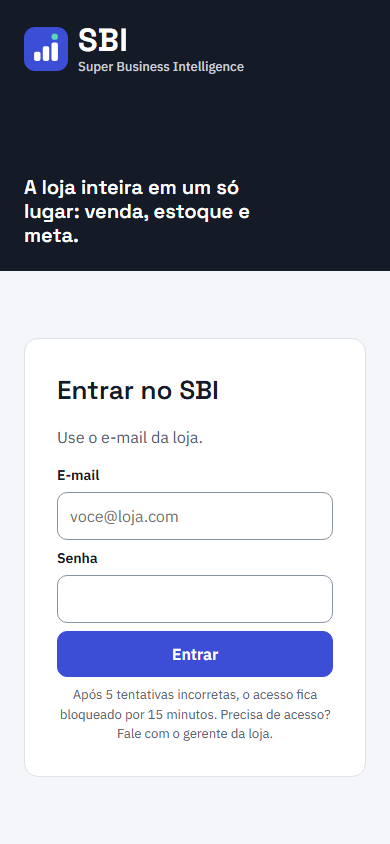
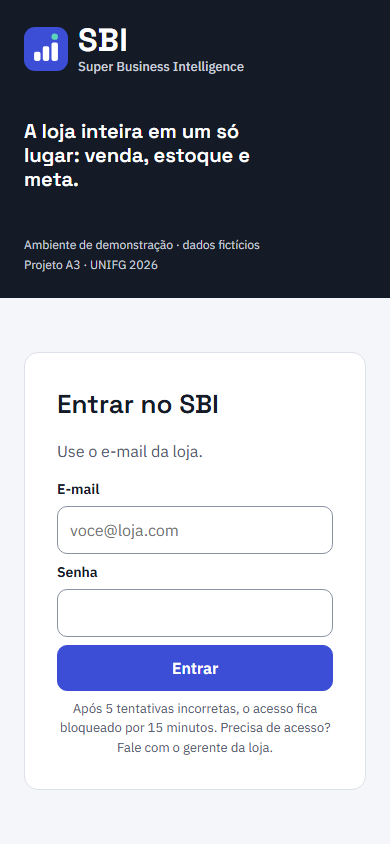
fix(demo): cost the seeded phones, translate Olist categories and cap the top products table

diff --git a/frontend/app/(app)/gestao/dashboard.tsx b/frontend/app/(app)/gestao/dashboard.tsx
@@ -14,6 +14,8 @@ import { GoalBar, RevenueChart, ShareBars } from '../../../components/charts.tsx
 import { Icon } from '../../../components/brand/icons.tsx';
 
 const PERIODS = [['TODAY', 'Hoje'], ['D7', '7 dias'], ['D30', '30 dias'], ['D90', '90 dias']] as const;
+/** Linhas da tabela "Produtos mais vendidos"; a lista completa fica em Análises. */
+const TOP_PRODUCTS = 10;
 type Period = (typeof PERIODS)[number][0];
 const GOAL_STATE: Readonly<Record<string, string>> = { SEM_META: 'Sem meta', EM_ANDAMENTO: 'Em andamento', META_ATINGIDA: 'Meta atingida' };
 
@@ -58,10 +60,11 @@ export default function Dashboard() {
   });
 
   const report = revenue.data;
-  const products = useMemo(() => {
+  const matching = useMemo(() => {
     const term = productFilter.trim().toLowerCase();
     return (report?.topProducts ?? []).filter(p => !term || p.name.toLowerCase().includes(term) || p.sku.toLowerCase().includes(term));
   }, [report, productFilter]);
+  const products = matching.slice(0, TOP_PRODUCTS);
   const updated = revenue.dataUpdatedAt ? formatTime(new Date(revenue.dataUpdatedAt).toISOString()) : null;
   const missingCost = report !== undefined && report.grossProfit === null;
 
@@ -127,7 +130,8 @@ export default function Dashboard() {
                 <input id="filtro-produto" className="input" type="search" placeholder="Buscar produto" value={productFilter}
                        onChange={event => setProductFilter(event.target.value)} /></div>
             </div>
-            {products.length === 0 ? <p className="empty">Nenhum produto vendido no período.</p> : <div className="table-wrap"><table>
+            {products.length === 0 ? <p className="empty">Nenhum produto vendido no período.</p>
+              : <div className="table-wrap" tabIndex={0} role="group" aria-labelledby="produtos-titulo"><table>
               <caption className="sr-only">Produtos mais vendidos</caption>
               <thead><tr><th scope="col">Produto</th><th scope="col" className="right">Unid.</th><th scope="col" className="right">Líquido</th>
                 <th scope="col" className="right">Lucro</th></tr></thead>
@@ -136,6 +140,8 @@ export default function Dashboard() {
                   <td className="num right">{money(p.netRevenue)}</td><td className="num right">{money(p.grossProfit)}</td></tr>
               ))}</tbody>
             </table></div>}
+            {matching.length > TOP_PRODUCTS && <p className="muted">
+              Mostrando {TOP_PRODUCTS} de {matching.length}. <Link href="/gestao/analises">Ver todos</Link></p>}
           </section>
           <div className="stack">
             <section className="card stack-sm" aria-labelledby="meta-titulo">

diff --git a/frontend/app/globals.css b/frontend/app/globals.css
@@ -112,7 +112,8 @@ dl.facts dd { margin: 2px 0 0; overflow-wrap: anywhere; }
 .login-panel { background: var(--ink); color: #fff; padding: var(--space-6); display: flex; flex-direction: column; justify-content: space-between; gap: var(--space-4); }
 .login-panel .login-headline { color: #fff; font-size: clamp(26px, 3vw, 36px); line-height: 1.2; font-weight: 600; max-width: 18ch; margin: 0; }
 .login-panel p { color: #C9CEDA; max-width: 44ch; }
-.login-panel .login-footer { font-size: 13px; color: #C9CEDA; }
+.login-panel .login-footer { font-size: 13px; line-height: 18px; color: #C9CEDA; display: grid; gap: 2px; }
+.login-panel .login-footer span { white-space: nowrap; }
 .login-form { display: grid; place-items: center; padding: var(--space-3); }
 .login .card { width: 100%; max-width: 420px; padding: var(--space-4); display: grid; gap: var(--space-2); }
 .login .card h2 { font-size: 24px; line-height: 32px; }
@@ -196,7 +197,8 @@ dl.facts dd { margin: 2px 0 0; overflow-wrap: anywhere; }
   .login { grid-template-columns: minmax(0, 1fr); }
   .login-panel { padding: var(--space-3); gap: var(--space-2); }
   .login-panel .login-headline { font-size: 20px; }
-  .login-panel .login-lead, .login-panel .login-footer { display: none; }
+  .login-panel .login-lead { display: none; }
+  .login-panel .login-footer { font-size: 12px; }
 }
 @media (max-width: 900px) {
   .pdv { grid-template-columns: minmax(0, 1fr); }

diff --git a/frontend/e2e/brand.spec.ts b/frontend/e2e/brand.spec.ts
@@ -75,3 +75,18 @@ test('[CT-WEB-121] rota inexistente mostra a pagina de nao encontrada da marca',
   expect(response?.status()).toBe(404);
   await expect(page.getByRole('heading', { name: 'Página não encontrada.' })).toBeVisible();
 });
+
+test('[CT-WEB-127] rodape do login em duas linhas inteiras em 1280 px e 390 px', async ({ page }) => {
+  for (const width of [1280, 390]) {
+    await page.setViewportSize({ width, height: width === 390 ? 844 : 800 });
+    await page.goto('/entrar');
+    const lines = page.locator('.login-footer span');
+    await expect(lines).toHaveText(['Ambiente de demonstração · dados fictícios', 'Projeto A3 · UNIFG 2026']);
+    for (const line of await lines.all()) {
+      const { height, lineHeight } = await line.evaluate(el => ({
+        height: el.getBoundingClientRect().height, lineHeight: parseFloat(getComputedStyle(el).lineHeight) }));
+      expect(height, `largura ${width}`).toBeLessThan(lineHeight * 1.5);
+    }
+    expect(await overflowing(page), `largura ${width}`).toEqual([]);
+  }
+});

diff --git a/frontend/e2e/manager.spec.ts b/frontend/e2e/manager.spec.ts
@@ -56,3 +56,16 @@ test('[CT-UI-001] menu do gerente traz as areas de venda e de gestao', async ({ 
     await expect(nav.getByRole('link', { name, exact: true })).toBeVisible();
   }
 });
+
+test('[CT-WEB-126] Produtos mais vendidos mostra 10 linhas e leva a Analises pelo "Ver todos"', async ({ page }) => {
+  for (let i = 0; i < 11; i++) await paidSale(await seed(5));
+  await login(page);
+  await page.goto('/gestao');
+  await page.getByText('Hoje', { exact: true }).click();
+  const section = page.getByRole('region', { name: 'Produtos mais vendidos' });
+  await expect(section.getByRole('table')).toBeVisible();
+  await expect(section.locator('tbody tr')).toHaveCount(10);
+  await expect(section.getByText(/^Mostrando 10 de \d+\./)).toBeVisible();
+  await section.getByRole('link', { name: 'Ver todos' }).click();
+  await expect(page).toHaveURL(/\/gestao\/analises$/);
+});

diff --git a/frontend/app/entrar/page.tsx b/frontend/app/entrar/page.tsx
@@ -15,7 +15,7 @@ export default function LoginPage() {
           <p className="display login-headline">A loja inteira em um só lugar: venda, estoque e meta.</p>
           <p className="login-lead">Cada venda baixa o estoque e conta para a meta de quem vendeu, com o mesmo número para gerente e vendedor.</p>
         </div>
-        <p className="login-footer">Ambiente de demonstração · dados fictícios · Projeto A3 · UNIFG 2026</p>
+        <p className="login-footer"><span>Ambiente de demonstração · dados fictícios</span><span>Projeto A3 · UNIFG 2026</span></p>
       </section>
       <div className="login-form">
         <section className="card" aria-labelledby="login-title">

diff --git a/docs/decisoes/evolucao.md b/docs/decisoes/evolucao.md
@@ -66,4 +66,8 @@ Data: 15/10/2026. Acabamento do ambiente publicado (Vercel, Render e Neon) e hig
 | D-PUB-01 | Cada pacote de publicação (WP-PUB-1 a 4) sai da `main` em branch própria, com um PR cada. Como todos acrescentam linhas no fim desta seção, o PR integrado depois do primeiro recebe a `main` por merge e mantém as duas listas de decisões. |
 | D-PUB-02 | A CI rejeita PR cujas mensagens de commit tragam rodapé de coautoria, crédito a ferramenta ou link de sessão (`scripts/check-commit-messages.mjs`, job `hygiene`); o mesmo verificador roda no hook local `commit-msg`. Os nomes de produto da lista ficam em base64 no script, e a mensagem de erro cita só a linha e a regra, para que o verificador não contenha nem imprima os termos que ele mesmo bloqueia. Termo dentro de outra palavra não conta. |
 | D-PUB-03 | Os arquivos de instruções que o `next dev` do Next 16 gera na raiz do `frontend/` saem do repositório e ficam ignorados por `frontend/.gitignore` com `/*.md` (exceto um futuro `README.md`), sem nomear cada arquivo; a raiz ignora `AGENTS.md`. Os dois commits antigos que trazem rodapé de coautoria continuam no histórico da `main`: removê-los exige reescrever a `main` e sincronizar todos os clones, o que fica para decisão da equipe. |
+| D-PUB-04 | iPhone e AirPods do seed demo passam a ter custo (60% do preço: R$ 2.700,00 e R$ 720,00) pela migração demo `V11_2`, gravado na entrada da carga inicial, no custo médio do saldo e no custo histórico dos itens já vendidos. Uma entrada nova de estoque não resolveria: com saldo e custo médio desconhecido, o gatilho mantém o custo desconhecido (CA-22-02), e a entrada ainda mudaria os saldos do Guia Visual usados nos testes BD-06, BD-19 e BD-21. O BD-07 (margem nula quando falta custo) passa a usar um produto próprio, dentro de transação desfeita no fim; o BD-07b confere a margem dos dois produtos. O `04_seed_demo.sql` recebe o mesmo trecho para o `run_all.sh`. |
+| D-PUB-05 | A carga Olist traduz as 37 categorias para o português com acento por uma tabela de mapeamento (`stg_olist.categoria_pt`); categoria sem tradução faz a carga falhar. O nome do produto segue a categoria (`<categoria> <código>`). "Audio" fica com a categoria de mesmo nome do seed, para não existirem duas categorias de áudio; os nomes do seed (Audio, Acessorios) não mudam porque testes e a promoção os usam. A limpeza apaga também as categorias sem acento de cargas anteriores, quando ficam sem produto. |
+| D-PUB-06 | Login: o rodapé do painel vira duas linhas que não quebram ("Ambiente de demonstração · dados fictícios" e "Projeto A3 · UNIFG 2026") e passa a aparecer também na faixa compacta (até 1024 px), porque o site público é aberto no celular e o aviso de dados fictícios importa ali. No `/gestao`, "Produtos mais vendidos" mostra os 10 primeiros (depois do filtro) com "Mostrando 10 de N" e o link "Ver todos" para Análises. |
+| D-PUB-07 | Com os nomes de categoria em português, a tabela "Produtos mais vendidos" passa a rolar na horizontal em 390 px, e o axe acusou `scrollable-region-focusable`. A área de rolagem da tabela recebe `tabIndex={0}`, `role="group"` e o nome do título da seção, para quem usa só o teclado conseguir rolar. As 17 capturas de `reports/marca/` foram refeitas com 0 violação. |
 | D-PUB-11 | O único endereço do site é <https://sbi-app-alpha.vercel.app>, por decisão do responsável em 15/10/2026. O verificador `scripts/check-commit-messages.mjs` passa a reprovar o domínio da demonstração antiga nas mensagens de commit (CI e hook `commit-msg`) e, com `--tracked`, em qualquer arquivo versionado (passo novo do job `hygiene`). O domínio fica em base64 no script, como os nomes de produto, para não aparecer em nenhum arquivo. |

diff --git a/docs/roteiro-demonstracao.md b/docs/roteiro-demonstracao.md
@@ -35,7 +35,7 @@ Contas: Matheus Siqueira (gerente, o único da loja) e Gabriel Sousa, Allan Barr
 | 7:45 | 9. Tentar rebaixar o último gerente | Em Usuários, mostrar que a linha "Matheus Siqueira (você)" não tem ação de papel nem de situação. No IntelliJ (Neon), executar `BEGIN; SET CONSTRAINTS ALL IMMEDIATE; UPDATE app_users SET role = 'VENDEDOR' WHERE db_role = 'gerente_rafael'; ROLLBACK;`: o banco responde `LAST_MANAGER: at least one active manager is required`. | Duas proteções: a API proíbe alterar a própria conta (409 `SELF_CHANGE_FORBIDDEN`) e o gatilho `keep_one_active_manager` garante um gerente ativo mesmo com dois gerentes se rebaixando ao mesmo tempo (409 `LAST_MANAGER`). O `db_role` é a chave fixa da conta de gerente do seed. |
 | 8:30 | 10. SQL e CRUD no banco | No IntelliJ (Neon), executar `08_crud_clientes_olist.sql` por blocos: cadastro de PF e de PJ com CNPJ alfanumérico, as recusas do banco, histórico da Larissa, `v_cliente_resumo`, ranking de clientes e exclusão recusada pela FK. Tudo termina em `ROLLBACK`. | É o mesmo banco que atende o site. A massa entrou por SQL puro (`\copy`, `INSERT ... SELECT`, uma transação) e o banco aceita CRUD de qualquer cliente SQL; CHECKs, FKs e gatilhos barram o que a API também barra. |
 | 10:00 | 11. Contrato | No terminal: `gh run list --branch main --limit 1`, abrir a execução e mostrar o job `contract`. Mostrar `reports/contrato/live-v5/live-contract.json` com `divergences: []`. | As 58 operações do contrato v5 são chamadas de verdade contra uma API isolada (a CI e o `scripts\test-contract.ps1` não tocam no banco publicado), e cada resposta, inclusive de erro, é validada com Ajv contra o contrato. |
-| 11:15 | 12. Job `bd` | Na mesma execução, job `bd`, e o artefato `bd-reports/resultado_bd.txt` (`gh run download <id> -n bd-reports`): 60 PASS e, na etapa Olist, 10 PASS. | Flyway V1–V11, seed demo, RBAC/RLS, CRUD, a corrida da última unidade (CC-01), o último gerente (BD-30), as alçadas (BD-32) e a massa Olist (CT-DEMO) passam por `psql`. Cada push na `main` publica sozinho a API e o frontend. |
+| 11:15 | 12. Job `bd` | Na mesma execução, job `bd`, e o artefato `bd-reports/resultado_bd.txt` (`gh run download <id> -n bd-reports`): 61 PASS e, na etapa Olist, 11 PASS. | Flyway V1–V11, seed demo, RBAC/RLS, CRUD, a corrida da última unidade (CC-01), o último gerente (BD-30), as alçadas (BD-32) e a massa Olist (CT-DEMO) passam por `psql`. Cada push na `main` publica sozinho a API e o frontend. |
 
 ## Depois da apresentação ou do ensaio
 

diff --git a/docs/plano-testes.md b/docs/plano-testes.md
@@ -276,12 +276,15 @@ Lacunas e decisoes em [decisoes/evolucao.md](decisoes/evolucao.md). Um pacote po
 | CT-DEMO-04 | WP-EVO-8 | BD | Valor limite | Verde | `09_testes_olist.sql`: saldo = entrada - vendido, nunca negativo, reservado 0 |
 | CT-DEMO-05 | WP-EVO-8 | API | Particionamento | Verde | `scripts/demo-olist-api.mjs`: VENDEDOR ve CPF e CNPJ da massa mascarados em lista, perfil, historico e resumo; GERENTE ve completo |
 | CT-DEMO-06 | WP-EVO-8 | BD | - | Verde | `run_olist_bd.sh`: roteiro `08_crud_clientes_olist.sql` com exatamente as tres recusas esperadas |
+| CT-DEMO-07 | WP-PUB-2 | BD | - | Verde | `09_testes_olist.sql`: 37 categorias com nome em portugues, produto `<categoria> <codigo>` e nenhuma categoria sem acento |
 | CT-WEB-120 | WP-EVO-9 | E2E | Particionamento | Verde | `e2e/brand.spec.ts`: logo com nome acessivel "SBI — Super Business Intelligence" e um unico item com `aria-current` em todas as rotas do gerente (10) e do vendedor (4) |
 | CT-WEB-121 | WP-EVO-9 | E2E/Acessibilidade | - | Verde | `e2e/brand.spec.ts`: `/icon.svg` e `/apple-icon.png` servidos, login "Entrar no SBI" com axe WCAG 2.2 AA e 320 px, menu recolhivel de 44 px em 320 px, 404 da marca |
 | CT-WEB-122 | WP-EVO-9 | Unitario | - | Verde | `tests/brand.test.ts`: nome acessivel unico e geometria do simbolo igual a `app/icon.svg` |
 | CT-WEB-123 | WP-EVO-9 | Unitario | - | Verde | `tests/brand.test.ts`: seis icones do manual e sete derivados; icone decorativo (`aria-hidden`) por padrao e nomeado com rotulo |
 | CT-WEB-124 | WP-EVO-9 | Unitario | Particionamento | Verde | `tests/brand.test.ts`: hora 14h30, periodo "01/09 a 30/09/2026", "Nao informado", "R$ 47 mil", iniciais do avatar, selos de estado e secoes do menu |
 | CT-WEB-125 | WP-EVO-9 | Unitario | - | Verde | `tests/brand.test.ts`: nenhuma forma proibida do nome (sigla com pontos, so a inicial maiuscula, nome abreviado com ou sem espaco, artigo feminino; lista em `FORBIDDEN`) em `frontend/app`, `components`, `lib` e `docs/` |
+| CT-WEB-126 | WP-PUB-2 | E2E | Valor limite | Verde | `e2e/manager.spec.ts`: com 11 produtos vendidos no dia, "Produtos mais vendidos" mostra 10 linhas, "Mostrando 10 de N" e o link "Ver todos" leva a `/gestao/analises` |
+| CT-WEB-127 | WP-PUB-2 | E2E | - | Verde | `e2e/brand.spec.ts`: rodape do login em duas linhas inteiras ("Ambiente de demonstracao · dados ficticios" e "Projeto A3 · UNIFG 2026") em 1280 px e 390 px, sem rolagem horizontal |
 
 ## Selecao inicial da suite
 

diff --git a/docs/bd/massa-demonstracao.md b/docs/bd/massa-demonstracao.md
@@ -20,7 +20,7 @@ Objetivo: dar à demonstração um histórico de compras realista e volumoso par
 ## Adaptações
 
 - **Pessoas:** a Olist não publica nome nem documento. Os nomes são sintéticos; CPF e CNPJ são gerados a partir de hash, com dígito verificador válido; os e-mails usam o domínio reservado `example.com`. Endereço: cidade, UF e prefixo de CEP do original, com rua e número de demonstração. Nenhum dado pessoal real.
-- **Produtos:** nome `<categoria> <código>`, SKU `OL-<6 hex>`, custo médio sintético de 55% a 70% do preço, só para margem e lucro aparecerem. Estoque inicial = quantidade vendida + saldo restante de 5 a 20 (determinístico pelo SKU), com entrada datada antes do primeiro pedido.
+- **Produtos:** nome `<categoria em português> <código>` (a carga traduz as 37 categorias com acento; categoria sem tradução faz a carga falhar), SKU `OL-<6 hex>`, custo médio sintético de 55% a 70% do preço, só para margem e lucro aparecerem. Estoque inicial = quantidade vendida + saldo restante de 5 a 20 (determinístico pelo SKU), com entrada datada antes do primeiro pedido.
 - **Datas:** comprimidas para os últimos 365 dias; `dias_atras` é relativo à data da carga, então o histórico não envelhece. Nenhum pedido fica no futuro: o horário de hoje é limitado ao instante da carga.
 - **Pagamento:** o de maior valor de cada pedido; cartão de crédito ou débito vira CARD (só os 4 últimos dígitos, sintéticos), boleto vira BOLETO (vencimento em 3 dias) e voucher vira PIX. Só pedidos entregues, todos pagos.
 - **Vendedor:** `VENDEDOR_1..3` viram Ana, Bruno e Carla, as contas de demonstração.
@@ -72,5 +72,6 @@ O banco está em `tmpfs`: cada `up` começa limpo e reproduzível. Para recarreg
 | CT-DEMO-04 | `09_testes_olist.sql` | saldo = entrada − vendido, nunca negativo, reservado 0 |
 | CT-DEMO-05 | `scripts/demo-olist-api.mjs` | pela API, o VENDEDOR vê CPF e CNPJ da massa mascarados em lista, perfil, histórico e resumo; o GERENTE vê completo e o resumo com 14 pedidos |
 | CT-DEMO-06 | `run_olist_bd.sh` | o roteiro 08 roda com exatamente as três recusas esperadas |
+| CT-DEMO-07 | `09_testes_olist.sql` | 37 categorias com nome em português e nenhum produto da massa em categoria sem acento |
 
 Na CI, o job `bd` roda essa etapa (`docs/bd/pacote-sql/run_olist_bd.sh`) depois dos testes 06*, então nenhum número do BD-01 ao BD-32 muda. Os perfis padrão, `integration` e `contract` não recebem a massa.

diff --git a/README.md b/README.md
@@ -78,7 +78,7 @@ As senhas ficam em `.env.local` (fora do git), gerado na primeira execução: `S
 | Perfil | Uso |
 | --- | --- |
 | padrão | Desenvolvimento com o banco `postgres-order` (`docker compose up -d postgres`) e a senha em `SPRING_DATASOURCE_PASSWORD`. |
-| `demo` | Aplica também `db/demo` (V6_1, contas com BCrypt de `SBI_DEMO_PASSWORD`; V6_2, massa sintética; V11_1, promoção de Acessórios até dezembro). Precisa estar ativo desde a primeira migração do banco. |
+| `demo` | Aplica também `db/demo` (V6_1, contas com BCrypt de `SBI_DEMO_PASSWORD`; V6_2, massa sintética; V11_1, promoção de Acessórios até dezembro; V11_2, custo da carga inicial de iPhone e AirPods). Precisa estar ativo desde a primeira migração do banco. |
 | `integration` (testes) | PostgreSQL descartável da porta 15432 (`docker-compose.test.yml`), com as tabelas de negócio esvaziadas por `TRUNCATE`. |
 | `contract` | API isolada dos testes HTTP de contrato, com contas sintéticas e senha gerada por execução. |
 
@@ -99,7 +99,7 @@ node scripts\quality-metrics.mjs reports\metricas\r1 "R1"                       
 
 A CI (`.github/workflows/ci.yml`) roda quatro jobs, cada um com seus relatórios como artefato:
 - `test (backend)`;
-- `bd`: Flyway, seed demo e pacote SQL com 60 PASS, mais 10 PASS da massa Olist;
+- `bd`: Flyway, seed demo e pacote SQL com 61 PASS, mais 11 PASS da massa Olist;
 - `contract`: auditoria estática e verificação ao vivo das 58 operações do contrato v5;
 - `frontend`: typecheck, schemas sem diff, testes unitários, build, E2E e axe.
 

diff --git a/docs/bd/migracoes.md b/docs/bd/migracoes.md
@@ -15,6 +15,7 @@ Desde a ETAPA 2A (14/10/2026), o Flyway é a única fonte do esquema em todos os
 | V5 | Pré-checagem dos dados legados; catálogo, estoque, metas, promoções, papéis, bloqueio de login, auditoria, idempotência e funções `fn_*` ([modelo](modelo-erp-pdv.md)). |
 | V6 | 16 views dos painéis, inclusive `v_faturamento_diario`. |
 | V6_1, V6_2 (`db/demo`) | Só no perfil `demo`: contas com BCrypt de `SBI_DEMO_PASSWORD` e massa sintética. |
+| V11_2 (`db/demo`) | Só no perfil `demo`: iPhone e AirPods da V6_2 passam a ter custo na carga inicial (60% do preço), gravado na entrada de 25/08, no custo médio e no custo histórico dos itens vendidos; saldos e reservas não mudam (D-PUB-04). |
 | V11_1 (`db/demo`) | Só no perfil `demo`: a promoção de Acessórios da V6_2 passa a valer até 31/12/2026 (cobre a apresentação de 29/11). Altera só a linha original do seed. |
 
 **Perfil `demo` (A2A-4).** Ele precisa estar ativo desde a primeira migração do banco. Com `out-of-order` desligado, ativá-lo num banco já migrado além da V6 faz o Flyway recusar as versões 6.1 e 6.2; nesse caso o banco é recriado, não completado. Sem `SBI_DEMO_PASSWORD` (12 a 72 bytes), a V6_1 falha e o banco não sobe.

diff --git a/docs/bd/modelo-erp-pdv.md b/docs/bd/modelo-erp-pdv.md
@@ -453,7 +453,7 @@ Ambiente: contêiner `postgres:18` descartável, removido ao final. Sequência: 
 | Base com dois CPFs que colidem após normalização | A pré-checagem abortou: `V5: documentos colidem apos normalizacao para digitos: 52998224725`. |
 | Testes 06a/06b/06c do pacote com o bloco D aplicado | 50 PASS, 0 FAIL, 0 ERROR. |
 | CC-01 (duas vendas simultâneas da última unidade) | Reservado/saldo = 1/1; a segunda venda recebeu `estoque insuficiente`. Com os 50, fecha os 51 PASS de 12/10. |
-| `v_faturamento_diario` sobre o seed de setembro | Faturamento bruto 186.400,00, 65 pedidos pagos, 92 unidades; 16 dos 27 dias com `lucro_bruto` nulo (iPhone e AirPods sem custo no seed, como no Guia Visual). |
+| `v_faturamento_diario` sobre o seed de setembro | Faturamento bruto 186.400,00, 65 pedidos pagos, 92 unidades; 16 dos 27 dias com `lucro_bruto` nulo só com a V6_2 (iPhone e AirPods sem custo, como no Guia Visual); com a V11_2 do perfil `demo`, que informa o custo da carga inicial desses dois produtos, nenhum dia fica nulo e o BD-07 usa um produto próprio sem custo. |
 
 O ensaio não exercitou as adaptações P1, P7 e P9 nem o seed com CPFs válidos; elas são entregues e testadas na ETAPA 2A.
 
